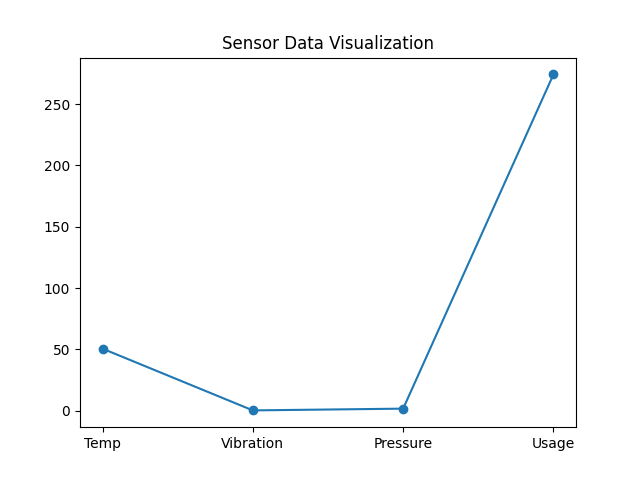
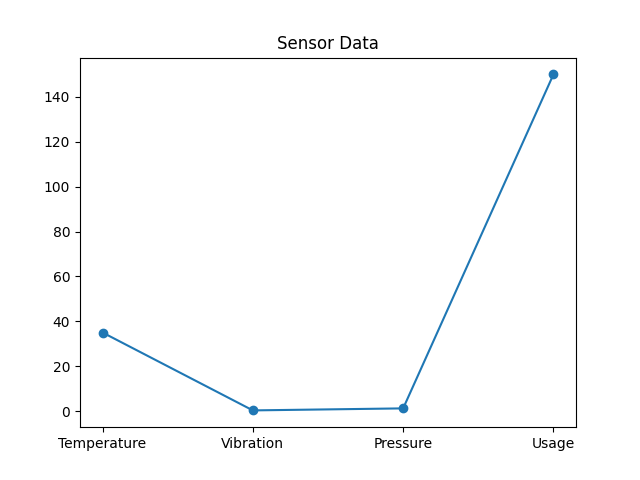
Fixed app for deployment

diff --git a/templates/index.html b/templates/index.html
@@ -1,61 +1,77 @@
 <!DOCTYPE html>
 <html>
 <head>
-    <meta http-equiv="refresh" content="3">
     <title>Smart Predictive Maintenance</title>
     <link rel="stylesheet" href="/static/style.css">
 </head>
 <body>
 
-<h1>⚙ Smart Predictive Maintenance Dashboard</h1>
+<div class="container">
 
-<h3 style="color:lightblue;">System Status: Monitoring in Real-Time...</h3>
+    <h1>⚙ Predictive Maintenance Dashboard</h1>
+    <h3 id="statusText">🟢 System Healthy</h3>
 
-<!-- 🔥 SENSOR CARDS -->
-<div>
-    <div class="card">
-        <h3>🌡 Temperature</h3>
-        <p>{{ auto_temp }}</p>
+    <div class="panel">
+    <h2>Enter Sensor Data</h2>
+
+    <form method="POST">
+
+        <div class="slider-box">
+            <label>🌡 Temperature: <span id="temp_val">50</span></label>
+            <input type="range" name="temperature" min="20" max="100" step="1" value="50"
+                   oninput="temp_val.innerText = this.value">
+        </div>
+
+        <div class="slider-box">
+            <label>📳 Vibration: <span id="vib_val">0.5</span></label>
+            <input type="range" name="vibration" min="0" max="1" step="0.1" value="0.5"
+                   oninput="vib_val.innerText = this.value">
+        </div>
+
+        <div class="slider-box">
+            <label>⚙ Pressure: <span id="pres_val">1.5</span></label>
+            <input type="range" name="pressure" min="1" max="3" step="0.1" value="1.5"
+                   oninput="pres_val.innerText = this.value">
+        </div>
+
+        <div class="slider-box">
+            <label>⏱ Usage: <span id="use_val">300</span></label>
+            <input type="range" name="usage" min="0" max="600" step="10" value="300"
+                   oninput="use_val.innerText = this.value">
+        </div>
+
+        <button type="submit">🚀 Predict</button>
+    </form>
+</div>
+   
+
+    {% if result %}
+    <div class="panel">
+        <h2 class="{{ 'risk' if 'Risk' in result else 'safe' }}">{{ result }}</h2>
+
+        <p><b>Reason:</b> {{ reason }}</p>
+
+        {% if alert %}
+            <div class="alert">{{ alert }}</div>
+        {% endif %}
     </div>
+    {% endif %}
 
-    <div class="card">
-        <h3>📳 Vibration</h3>
-        <p>{{ auto_vib }}</p>
+    {% if graph %}
+    <div class="panel">
+        <h3>📊 Sensor Graph</h3>
+        <img src="{{ graph }}">
     </div>
+    {% endif %}
 
-    <div class="card">
-        <h3>⚙ Pressure</h3>
-        <p>{{ auto_pres }}</p>
-    </div>
-
-    <div class="card">
-        <h3>⏱ Usage</h3>
-        <p>{{ auto_hours }}</p>
-    </div>
 </div>
 
-<!-- 🔥 RESULT -->
-{% if result %}
-    <h2 class="{{ 'risk' if 'Risk' in result else 'safe' }}">
-        {{ result }}
-    </h2>
-{% endif %}
-
-<!-- 🔥 REASON -->
-{% if reason %}
-    <p><b>Reason:</b> {{ reason }}</p>
-{% endif %}
-
-<!-- 🔥 ALERT -->
-{% if alert %}
-    <div class="alert">{{ alert }}</div>
-{% endif %}
-
-<!-- 🔥 GRAPH -->
-{% if graph %}
-    <h3>📊 Sensor Graph</h3>
-    <img src="{{ graph }}" width="500">
-{% endif %}
+<script>
+    let result = "{{ result }}";
+    if (result.includes("Risk")) {
+        document.getElementById("statusText").innerText = "🔴 High Risk Detected";
+    }
+</script>
 
 </body>
 </html>

diff --git a/static/style.css b/static/style.css
@@ -2,49 +2,124 @@ body {
     font-family: 'Segoe UI', sans-serif;
     background: #0f172a;
     color: white;
+    margin: 0;
+}
+
+.container {
+    width: 90%;
+    margin: auto;
     text-align: center;
 }
 
 h1 {
-    margin-top: 20px;
+    margin: 20px;
     font-size: 32px;
+    color: #38bdf8;
 }
 
-/* Cards */
-.card {
-    display: inline-block;
+.panel {
     background: #1e293b;
     padding: 20px;
-    margin: 15px;
+    margin: 20px auto;
     border-radius: 15px;
-    width: 200px;
-    box-shadow: 0px 0px 10px rgba(0,0,0,0.5);
+    width: 60%;
+    box-shadow: 0 0 10px rgba(0,0,0,0.5);
+    animation: fadeIn 0.6s ease-in-out;
 }
 
-.card h3 {
-    margin-bottom: 10px;
+input {
+    margin: 10px;
+    width: 60%;
 }
 
-/* Status */
+button {
+    padding: 10px 20px;
+    background: #2563eb;
+    color: white;
+    border: none;
+    border-radius: 8px;
+    cursor: pointer;
+    font-size: 16px;
+    transition: 0.3s;
+}
+
+button:hover {
+    background: #1d4ed8;
+    transform: scale(1.1);
+}
+
 .safe {
     color: #22c55e;
-    font-weight: bold;
 }
 
 .risk {
     color: #ef4444;
-    font-weight: bold;
 }
 
-/* Alert */
 .alert {
     color: red;
-    font-size: 20px;
     margin-top: 10px;
 }
 
-/* Graph */
 img {
-    margin-top: 20px;
+    width: 80%;
     border-radius: 10px;
+}
+
+.panel:hover {
+    transform: scale(1.02);
+    transition: 0.3s;
+}
+
+@keyframes fadeIn {
+    from {
+        opacity: 0;
+        transform: translateY(20px);
+    }
+    to {
+        opacity: 1;
+        transform: translateY(0);
+    }
+}
+/* Slider container */
+.slider-box {
+    margin: 20px 0;
+    text-align: left;
+}
+
+/* Label */
+.slider-box label {
+    display: block;
+    margin-bottom: 5px;
+    font-weight: bold;
+}
+
+/* Slider styling */
+input[type="range"] {
+    width: 100%;
+    height: 6px;
+    background: #334155;
+    border-radius: 5px;
+    outline: none;
+}
+
+/* Slider thumb */
+input[type="range"]::-webkit-slider-thumb {
+    -webkit-appearance: none;
+    width: 15px;
+    height: 15px;
+    background: #38bdf8;
+    border-radius: 50%;
+    cursor: pointer;
+}
+
+input[type="range"]::-moz-range-thumb {
+    width: 15px;
+    height: 15px;
+    background: #38bdf8;
+    border-radius: 50%;
+    cursor: pointer;
+}
+input[type="range"]::-webkit-slider-thumb:hover {
+    background: #0ea5e9;
 }

diff --git a/app.py b/app.py
@@ -1,7 +1,7 @@
 from flask import Flask, render_template, request
 from utils.predictor import predict_failure
 import matplotlib.pyplot as plt
-import random
+import os
 
 app = Flask(__name__)
 
@@ -12,38 +12,32 @@ def index():
     alert = None
     graph_path = None
 
-    # 🔥 Auto-generate sensor data
-    auto_temp = round(random.uniform(30, 70), 2)
-    auto_vib = round(random.uniform(0.2, 1.0), 2)
-    auto_pres = round(random.uniform(1.0, 2.0), 2)
-    auto_hours = round(random.uniform(100, 600), 2)
+    if request.method == "POST":
+        temp = float(request.form["temperature"])
+        vib = float(request.form["vibration"])
+        pres = float(request.form["pressure"])
+        hours = float(request.form["usage"])
 
-    # 🔥 Auto prediction (real-time simulation)
-    result, reason, alert = predict_failure(auto_temp, auto_vib, auto_pres, auto_hours)
+        result, reason, alert = predict_failure(temp, vib, pres, hours)
 
-    # 🔥 Create graph
-    values = [auto_temp, auto_vib, auto_pres, auto_hours]
-    labels = ["Temp", "Vibration", "Pressure", "Usage"]
+        # Graph
+        values = [temp, vib, pres, hours]
+        labels = ["Temperature", "Vibration", "Pressure", "Usage"]
 
-    plt.figure()
-    plt.plot(labels, values, marker='o')
-    plt.title("Sensor Data Visualization")
+        plt.figure()
+        plt.plot(labels, values, marker='o')
+        plt.title("Sensor Data")
 
-    graph_path = "static/graph.png"
-    plt.savefig(graph_path)
-    plt.close()
+        graph_path = "static/graph.png"
+        plt.savefig(graph_path)
+        plt.close()
 
-    return render_template(
-        "index.html",
-        result=result,
-        reason=reason,
-        alert=alert,
-        graph=graph_path,
-        auto_temp=auto_temp,
-        auto_vib=auto_vib,
-        auto_pres=auto_pres,
-        auto_hours=auto_hours
-    )
+    return render_template("index.html",
+                           result=result,
+                           reason=reason,
+                           alert=alert,
+                           graph=graph_path)
 
 if __name__ == "__main__":
-    app.run(debug=True)
+    port = int(os.environ.get("PORT", 5000))
+    app.run(host="0.0.0.0", port=port)
